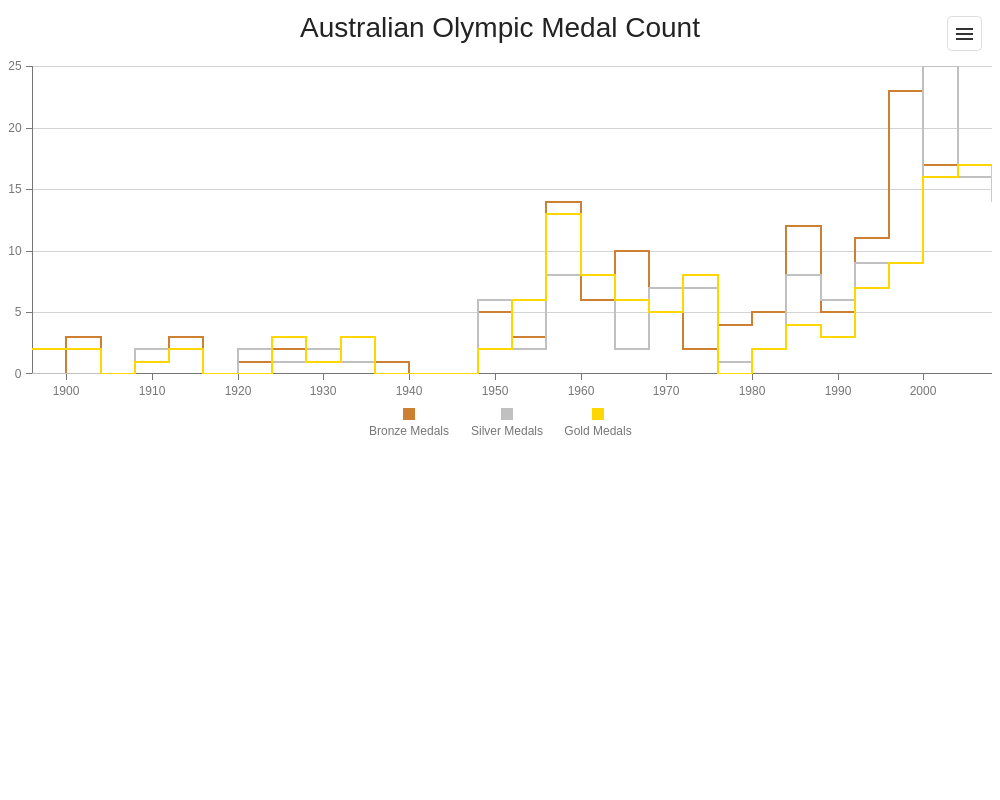
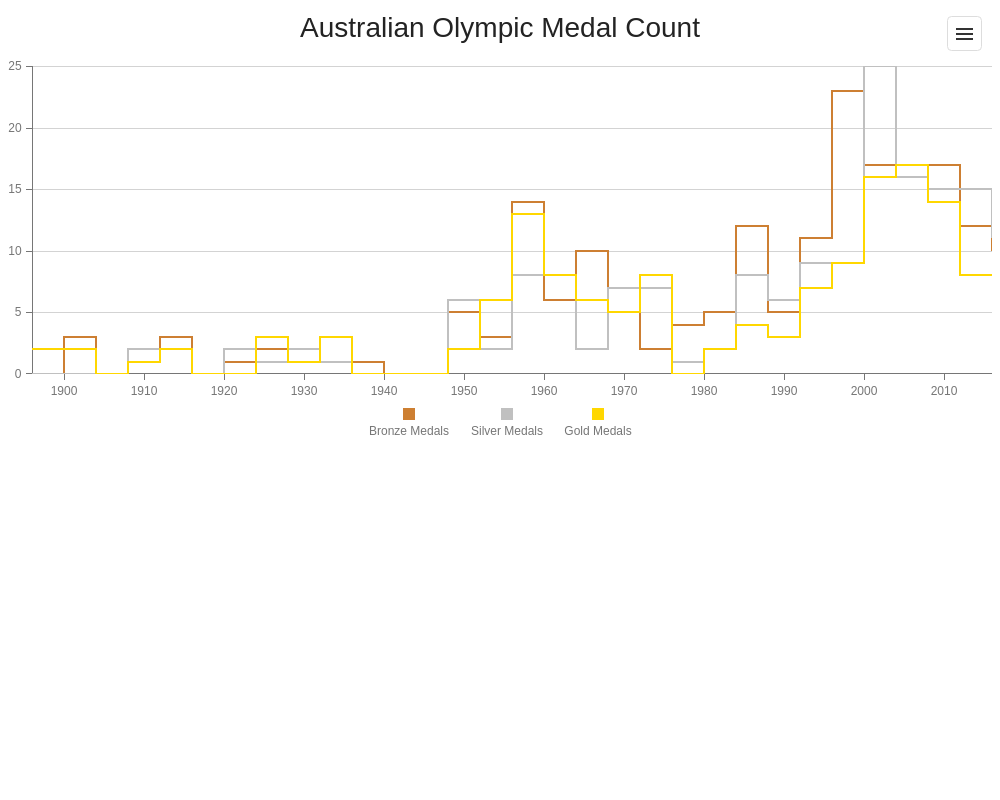
update data for stepline demo (#1074)
* update data for stepline demo

* Change etalon

diff --git a/JSDemos/Demos/Charts/StepLine/Angular/app/app.service.ts b/JSDemos/Demos/Charts/StepLine/Angular/app/app.service.ts
@@ -152,6 +152,16 @@ let medalsInfo: MedalInfo[] = [{
     gold: 14,
     silver: 15,
     bronze: 17
+}, {
+    year: 2012,
+    gold: 8,
+    silver: 15,
+    bronze: 12
+}, {
+    year: 2016,
+    gold: 8,
+    silver: 11,
+    bronze: 10
 }];
 
 @Injectable()

diff --git a/JSDemos/Demos/Charts/StepLine/AngularJS/data.js b/JSDemos/Demos/Charts/StepLine/AngularJS/data.js
@@ -143,4 +143,14 @@ var dataSource = [{
     gold: 14,
     silver: 15,
     bronze: 17
+}, {
+    year: 2012,
+    gold: 8,
+    silver: 15,
+    bronze: 12
+}, {
+    year: 2016,
+    gold: 8,
+    silver: 11,
+    bronze: 10
 }];

diff --git a/JSDemos/Demos/Charts/StepLine/Knockout/data.js b/JSDemos/Demos/Charts/StepLine/Knockout/data.js
@@ -143,4 +143,14 @@ var dataSource = [{
     gold: 14,
     silver: 15,
     bronze: 17
+}, {
+    year: 2012,
+    gold: 8,
+    silver: 15,
+    bronze: 12
+}, {
+    year: 2016,
+    gold: 8,
+    silver: 11,
+    bronze: 10
 }];

diff --git a/JSDemos/Demos/Charts/StepLine/jQuery/data.js b/JSDemos/Demos/Charts/StepLine/jQuery/data.js
@@ -143,4 +143,14 @@ var dataSource = [{
     gold: 14,
     silver: 15,
     bronze: 17
+}, {
+    year: 2012,
+    gold: 8,
+    silver: 15,
+    bronze: 12
+}, {
+    year: 2016,
+    gold: 8,
+    silver: 11,
+    bronze: 10
 }];

diff --git a/JSDemos/Demos/Charts/StepLine/React/data.js b/JSDemos/Demos/Charts/StepLine/React/data.js
@@ -149,4 +149,14 @@ export const olympicAchievements = [{
   gold: 14,
   silver: 15,
   bronze: 17
+}, {
+  year: 2012,
+  gold: 8,
+  silver: 15,
+  bronze: 12
+}, {
+  year: 2016,
+  gold: 8,
+  silver: 11,
+  bronze: 10
 }];

diff --git a/JSDemos/Demos/Charts/StepLine/Vue/data.js b/JSDemos/Demos/Charts/StepLine/Vue/data.js
@@ -149,4 +149,14 @@ export const olympicAchievements = [{
   gold: 14,
   silver: 15,
   bronze: 17
+}, {
+  year: 2012,
+  gold: 8,
+  silver: 15,
+  bronze: 12
+}, {
+  year: 2016,
+  gold: 8,
+  silver: 11,
+  bronze: 10
 }];
